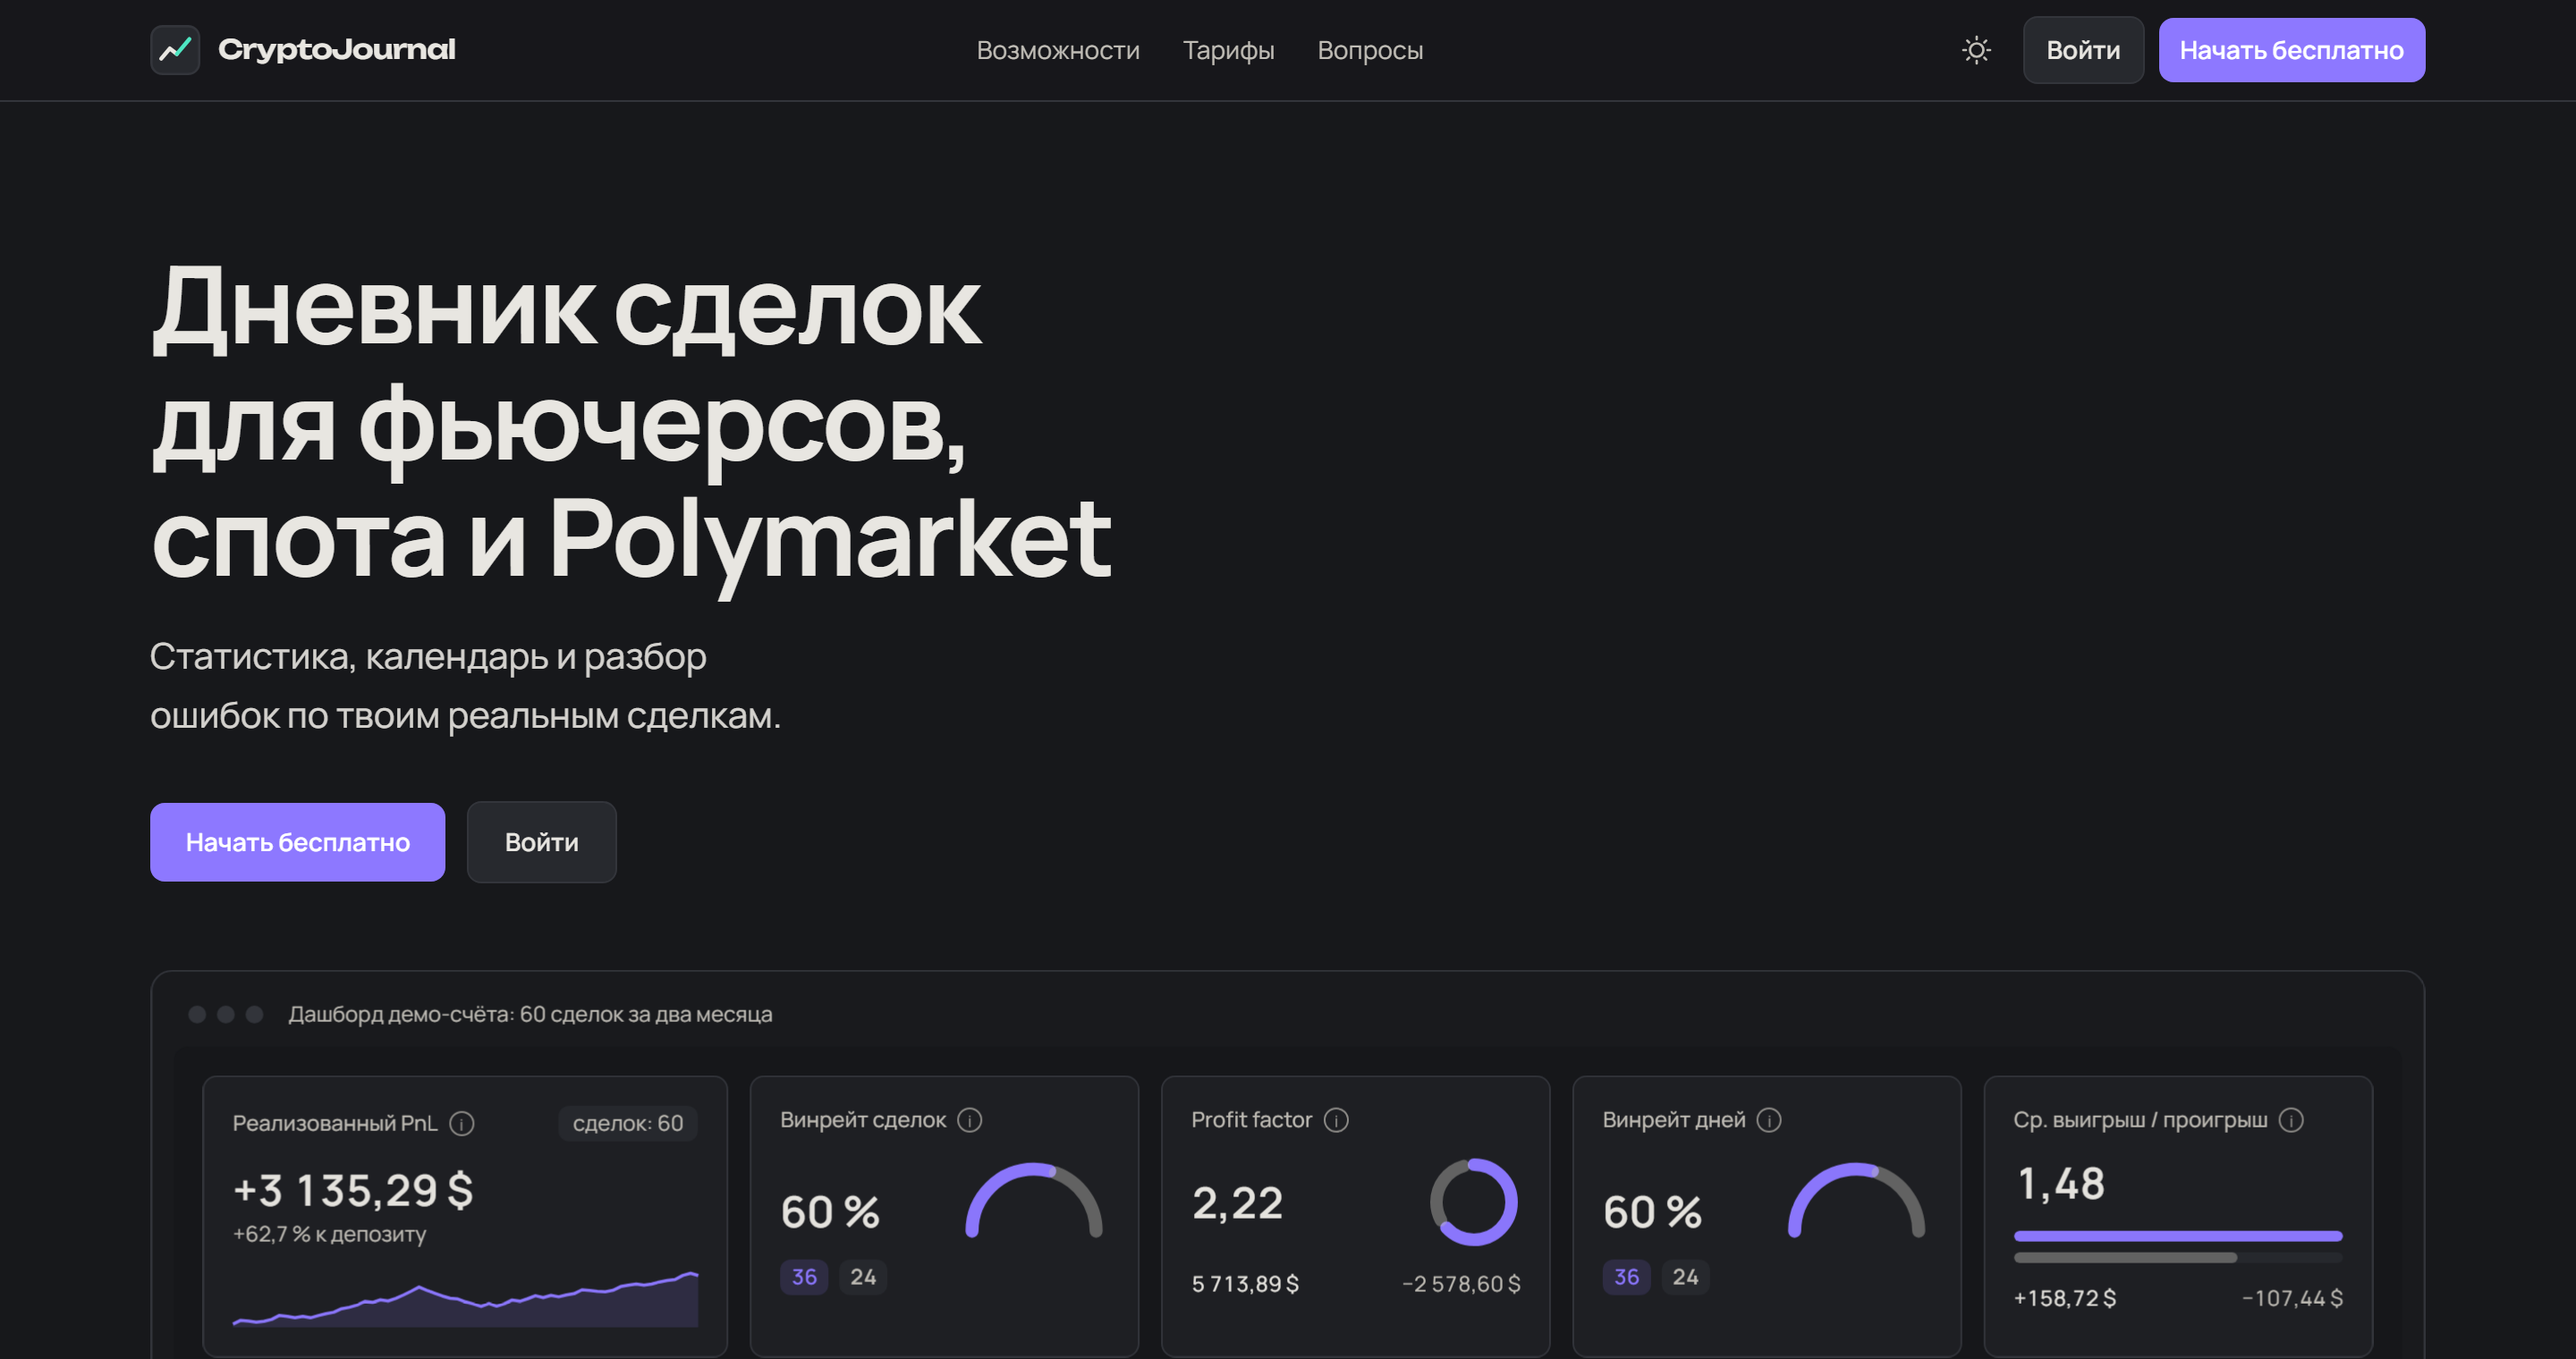
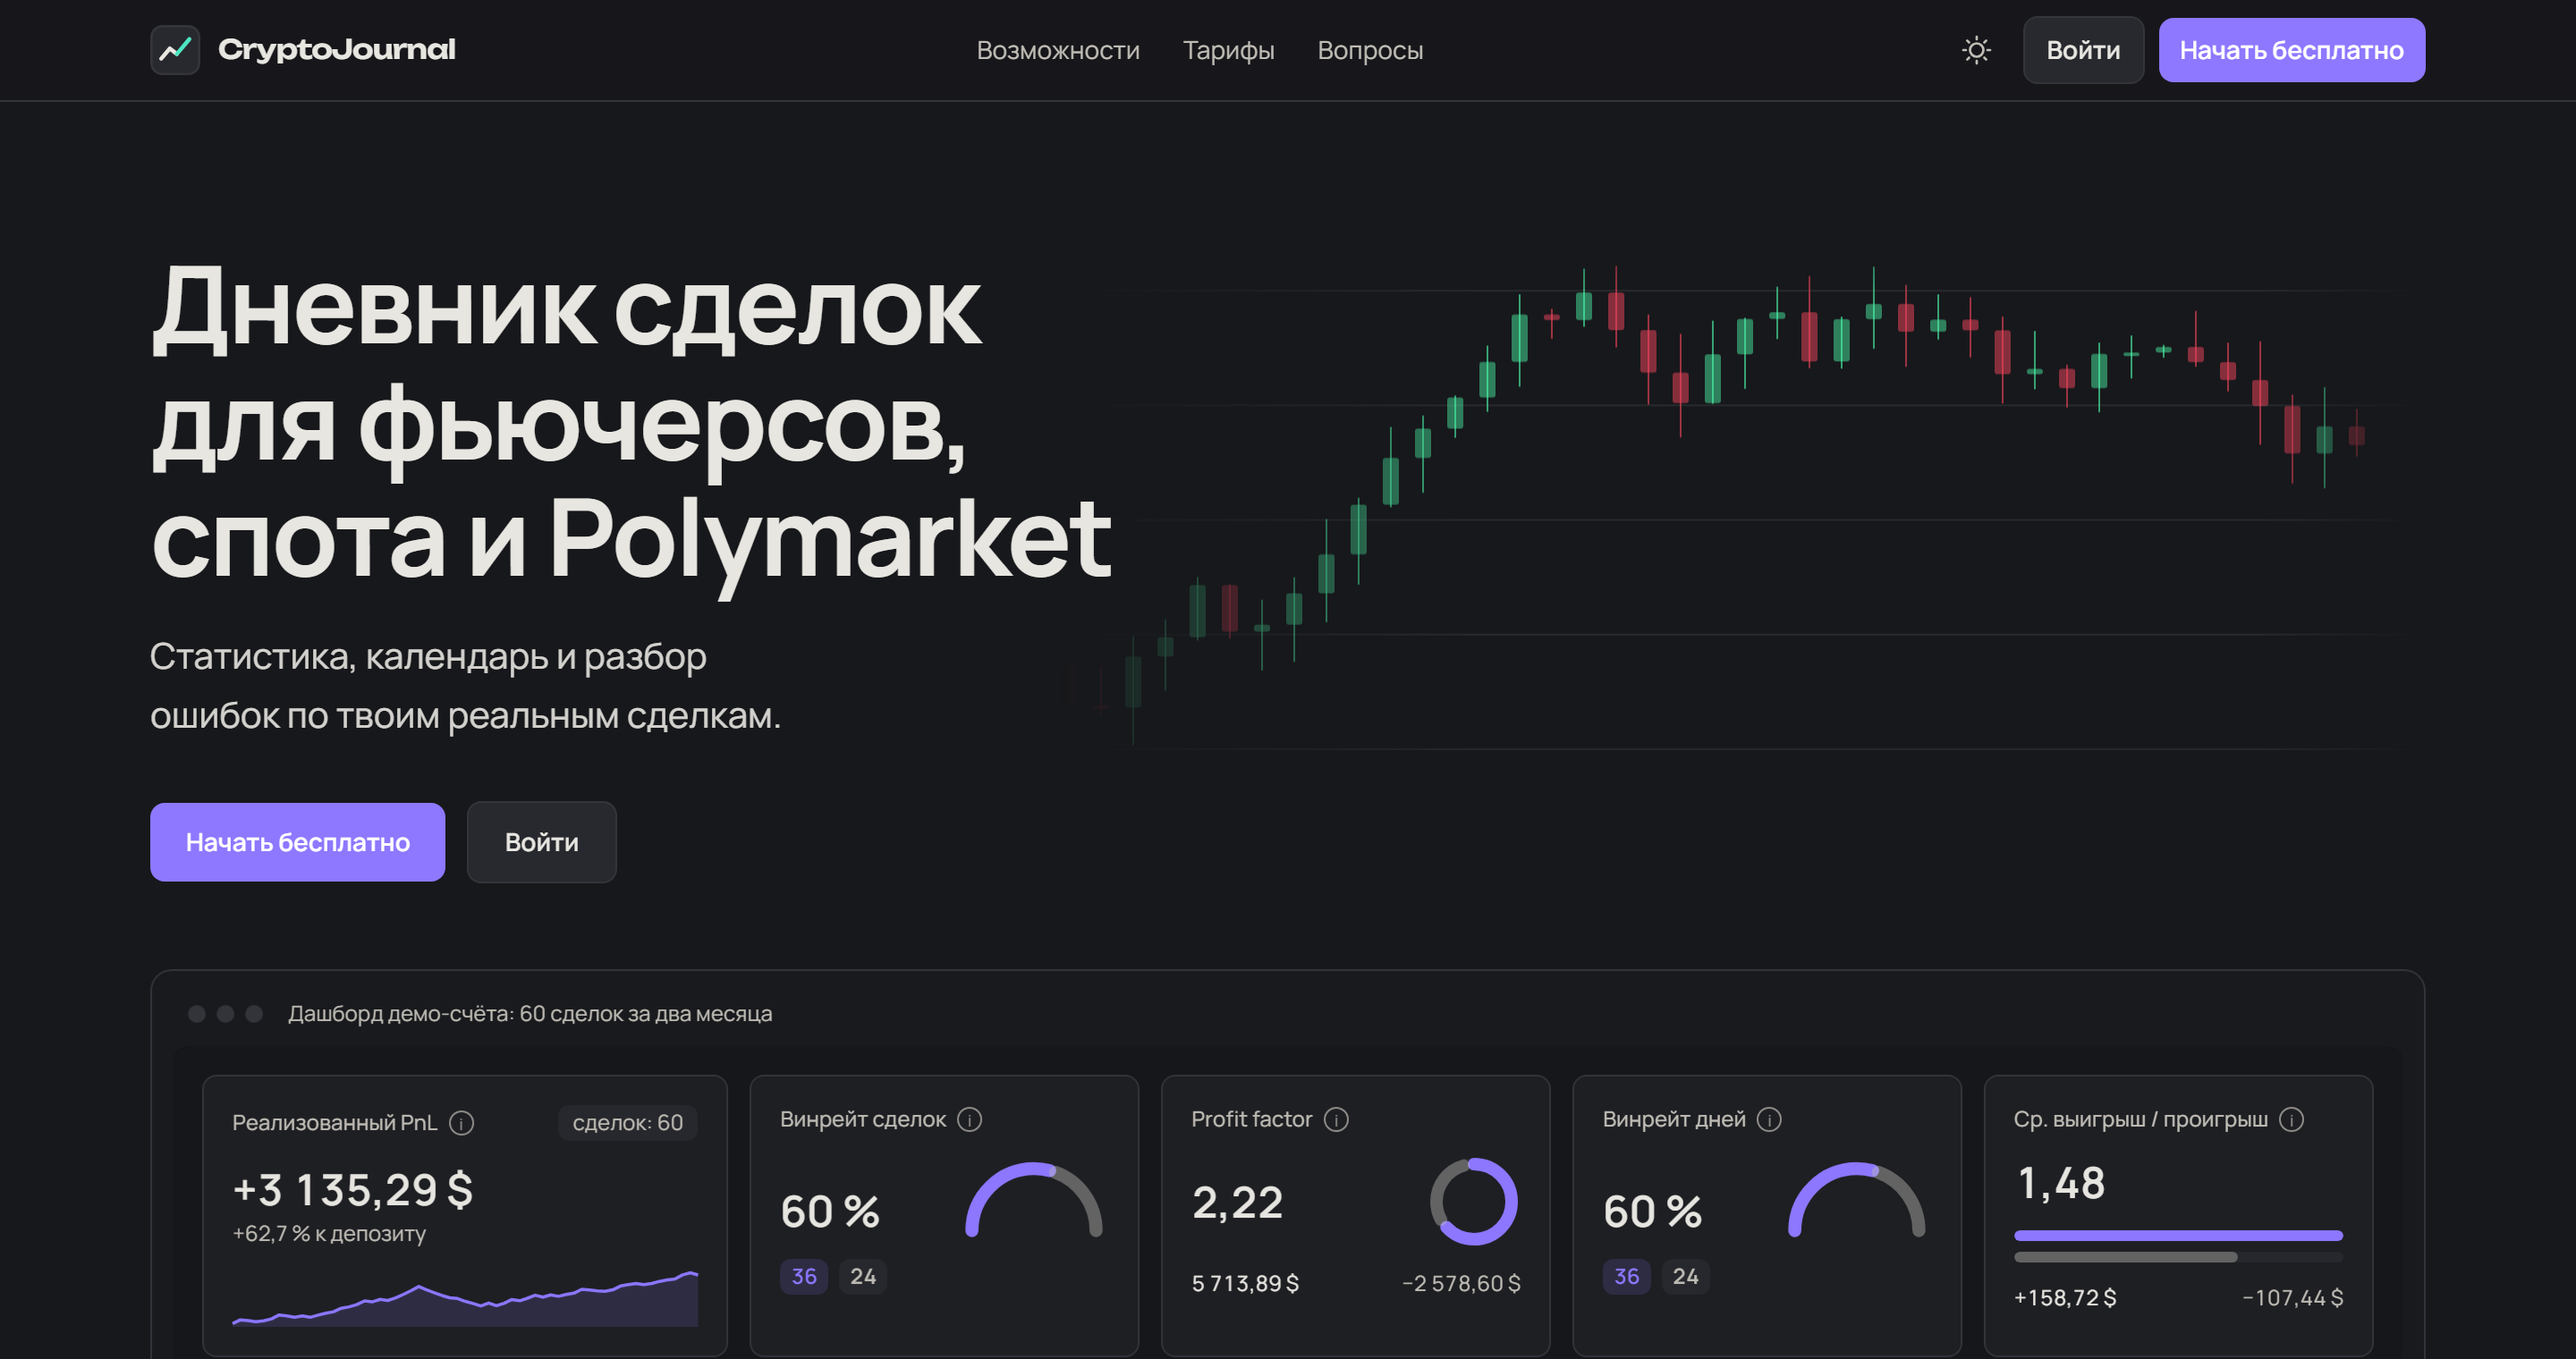
Главная: живой свечной график на фоне первого экрана
- HeroCandles: canvas справа от заголовка, свечи бесконечно едут влево, новая свеча формируется у правого края; на светлой теме свечи плотнее, сетка пунктиром
- цвета из theme.css (up / down / primary / border), меняются вместе с темой и палитрой
- растворяется к краям (hero-fade), появляется после заголовка; на телефоне скрыт
- пауза, когда блок не виден или вкладка скрыта; «уменьшить движение» — неподвижный кадр
- скриншоты обновлены

diff --git a/src/features/landing/HeroCandles.tsx b/src/features/landing/HeroCandles.tsx
@@ -1,0 +1,212 @@
+/**
+ * Фон первого экрана: живой свечной график, который бесконечно «едет»: справа рождаются новые свечи,
+ * последняя свеча формируется на глазах, старые уезжают влево и растворяются.
+ * Рисуется на <canvas> (requestAnimationFrame), цвета — из theme.css (--color-up / --color-down / --color-border),
+ * при смене темы или палитры перечитываются. Стоит на паузе, когда блок не виден или вкладка скрыта.
+ * «Уменьшить движение» — один неподвижный кадр.
+ */
+import { useEffect, useRef, type CSSProperties } from 'react'
+import { prefersReducedMotion } from '@/lib/motion'
+
+type Candle = { o: number; h: number; l: number; c: number }
+
+const STEP = 18 // px между свечами
+const BODY = 9 // ширина тела свечи
+const SPEED = 22 // px в секунду
+/** Прозрачность свечей по темам: на светлом фоне свечи плотнее, иначе выглядят блёклыми */
+const DARK = { wick: 0.6, up: 0.45, down: 0.5 }
+const LIGHT = { wick: 0.8, up: 0.75, down: 0.7 }
+const RIGHT = 28 // отступ новой свечи от правого края, px
+
+/** Следующая свеча: случайное блуждание с лёгким ростом и возвратом к середине, чтобы график не улетал */
+function nextCandle(prev: number, rnd: () => number): Candle {
+  const drift = 0.06 + (50 - prev) * 0.015
+  const move = (rnd() - 0.5) * 6 + drift
+  const o = prev
+  const c = prev + move
+  const h = Math.max(o, c) + rnd() * 2.2
+  const l = Math.min(o, c) - rnd() * 2.2
+  return { o, h, l, c }
+}
+
+function readColors() {
+  const s = getComputedStyle(document.documentElement)
+  const v = (n: string) => s.getPropertyValue(n).trim()
+  return { up: v('--color-up'), down: v('--color-down'), grid: v('--color-border'), light: document.documentElement.dataset.theme === 'light' }
+}
+
+export function HeroCandles({ className = '', style }: { className?: string; style?: CSSProperties }) {
+  const ref = useRef<HTMLCanvasElement>(null)
+
+  useEffect(() => {
+    const canvas = ref.current
+    const ctx = canvas?.getContext('2d')
+    if (!canvas || !ctx) return
+
+    const rnd = Math.random
+    let colors = readColors()
+    let w = 0
+    let h = 0
+    let candles: Candle[] = []
+    let shift = 0 // сдвиг влево внутри одного шага, px
+    let lo = 0
+    let hi = 100
+    let live = 0 // 0…1 — насколько «сформирована» последняя свеча
+    let target: Candle = { o: 50, h: 50, l: 50, c: 50 }
+
+    const fill = () => {
+      const need = Math.ceil(w / STEP) + 3
+      if (!candles.length) {
+        let p = 40 + rnd() * 10
+        for (let i = 0; i < need; i++) {
+          const c = nextCandle(p, rnd)
+          candles.push(c)
+          p = c.c
+        }
+        const r = range()
+        lo = r[0]
+        hi = r[1]
+      }
+      while (candles.length < need) candles.unshift(nextCandle(candles[0]?.o ?? 50, rnd))
+      target = nextCandle(candles[candles.length - 1].c, rnd)
+    }
+
+    const range = (): [number, number] => {
+      let a = Infinity
+      let b = -Infinity
+      for (const c of candles) {
+        a = Math.min(a, c.l)
+        b = Math.max(b, c.h)
+      }
+      const pad = (b - a) * 0.15 + 1
+      return [a - pad, b + pad]
+    }
+
+    const resize = () => {
+      const r = canvas.getBoundingClientRect()
+      const dpr = Math.min(window.devicePixelRatio || 1, 2)
+      w = r.width
+      h = r.height
+      canvas.width = Math.round(w * dpr)
+      canvas.height = Math.round(h * dpr)
+      ctx.setTransform(dpr, 0, 0, dpr, 0, 0)
+      fill()
+      draw()
+    }
+
+    const y = (v: number) => h - ((v - lo) / (hi - lo)) * h
+
+    const draw = () => {
+      ctx.clearRect(0, 0, w, h)
+      // сетка: на светлой — пунктир, чтобы не рябило на кремовом фоне
+      ctx.globalAlpha = colors.light ? 0.9 : 0.6
+      ctx.strokeStyle = colors.grid
+      ctx.lineWidth = 1
+      ctx.setLineDash(colors.light ? [3, 5] : [])
+      ctx.beginPath()
+      for (let gy = 0.5; gy < h; gy += 64) {
+        ctx.moveTo(0, Math.round(gy) + 0.5)
+        ctx.lineTo(w, Math.round(gy) + 0.5)
+      }
+      ctx.stroke()
+      ctx.setLineDash([])
+
+      // последняя свеча формируется: от открытия к цели
+      const k = live
+      const forming: Candle = {
+        o: target.o,
+        c: target.o + (target.c - target.o) * k,
+        h: Math.max(target.o, target.o + (target.h - target.o) * k),
+        l: Math.min(target.o, target.o + (target.l - target.o) * k),
+      }
+      const all = [...candles, forming]
+      // формирующаяся свеча рождается у правого края и вместе со всеми плавно уезжает влево
+      const x0 = w - RIGHT - (all.length - 1) * STEP - shift
+
+      all.forEach((c, i) => {
+        const x = x0 + i * STEP
+        if (x < -STEP || x > w + STEP) return
+        const up = c.c >= c.o
+        const a = colors.light ? LIGHT : DARK
+        ctx.globalAlpha = a.wick
+        ctx.strokeStyle = up ? colors.up : colors.down
+        ctx.fillStyle = up ? colors.up : colors.down
+        ctx.lineWidth = colors.light ? 1.25 : 1
+        ctx.beginPath()
+        ctx.moveTo(Math.round(x) + 0.5, y(c.h))
+        ctx.lineTo(Math.round(x) + 0.5, y(c.l))
+        ctx.stroke()
+        const top = y(Math.max(c.o, c.c))
+        const bh = Math.max(2, Math.abs(y(c.o) - y(c.c)))
+        ctx.globalAlpha = up ? a.up : a.down
+        ctx.beginPath()
+        ctx.roundRect(Math.round(x - BODY / 2), top, BODY, bh, 1.5)
+        ctx.fill()
+      })
+
+      ctx.globalAlpha = 1
+    }
+
+    let frame = 0
+    let prev = 0
+    let running = false
+    const tick = (now: number) => {
+      const dt = Math.min(0.05, (now - prev) / 1000)
+      prev = now
+      shift += SPEED * dt
+      live = Math.min(1, shift / STEP)
+      if (shift >= STEP) {
+        shift -= STEP
+        candles.push(target)
+        candles.shift()
+        target = nextCandle(target.c, rnd)
+        live = shift / STEP
+      }
+      // масштаб по высоте подстраивается плавно, без рывков
+      const [a, b] = range()
+      lo += (Math.min(a, target.l) - lo) * 0.03
+      hi += (Math.max(b, target.h) - hi) * 0.03
+      draw()
+      frame = requestAnimationFrame(tick)
+    }
+    const start = () => {
+      if (running || prefersReducedMotion()) return
+      running = true
+      prev = performance.now()
+      frame = requestAnimationFrame(tick)
+    }
+    const stop = () => {
+      running = false
+      cancelAnimationFrame(frame)
+    }
+
+    resize()
+    const ro = new ResizeObserver(resize)
+    ro.observe(canvas)
+    let visible = true
+    const io = new IntersectionObserver(([e]) => {
+      visible = e.isIntersecting
+      if (visible && !document.hidden) start()
+      else stop()
+    })
+    io.observe(canvas)
+    const onVis = () => (document.hidden || !visible ? stop() : start())
+    document.addEventListener('visibilitychange', onVis)
+    // тема / палитра поменялись — перечитать цвета
+    const mo = new MutationObserver(() => {
+      colors = readColors()
+      if (!running) draw()
+    })
+    mo.observe(document.documentElement, { attributes: true, attributeFilter: ['data-theme', 'data-palette'] })
+
+    return () => {
+      stop()
+      ro.disconnect()
+      io.disconnect()
+      mo.disconnect()
+      document.removeEventListener('visibilitychange', onVis)
+    }
+  }, [])
+
+  return <canvas ref={ref} aria-hidden className={className} style={style} />
+}

diff --git a/src/features/landing/LandingPage.tsx b/src/features/landing/LandingPage.tsx
@@ -12,6 +12,7 @@ import { KpiRow, ScoreCard } from '@/features/dashboard/Widgets'
 import { formatPnl, pnlClass } from '@/lib/format'
 import { Reveal } from './Reveal'
 import { PlanCards } from './PlanCards'
+import { HeroCandles } from './HeroCandles'
 import { demoAccount } from './demo'
 
 const EquityChart = lazy(() => import('@/features/dashboard/charts').then((m) => ({ default: m.EquityChart })))
@@ -79,7 +80,13 @@ export function LandingPage() {
       <main>
         {/* первый экран */}
         <section className={`${wrap} pt-12 pb-10 sm:pt-20`}>
-          <div className="max-w-3xl">
+          <div className="relative">
+          {/* живой свечной график справа от заголовка, на фоне */}
+          <HeroCandles
+            className="hero-fade animate-word pointer-events-none absolute -top-10 -bottom-8 right-0 hidden w-[60%] md:block"
+            style={{ animationDelay: '500ms' }}
+          />
+          <div className="relative max-w-3xl">
             {/* заход на сайт: слова заголовка по очереди, затем подзаголовок, кнопки и превью */}
             <h1 className="text-4xl leading-[1.08] font-bold tracking-tight text-balance sm:text-5xl lg:text-6xl" aria-label={l.title}>
               {l.title.split(' ').map((w, i) => (
@@ -102,6 +109,7 @@ export function LandingPage() {
                 {l.login}
               </Link>
             </Reveal>
+          </div>
           </div>
 
           {/* живое превью дашборда */}

diff --git a/src/styles/theme.css b/src/styles/theme.css
@@ -192,6 +192,14 @@
   }
 }
 
+/* Фоновый график на первом экране: растворяется к краям, слева — под текстом почти не виден */
+@utility hero-fade {
+  mask-image:
+    linear-gradient(to right, transparent, black 30%, black 88%, transparent),
+    linear-gradient(to bottom, transparent, black 18%, black 82%, transparent);
+  mask-composite: intersect;
+}
+
 /* Лесенка появления: style={{ '--i': номер }} задаёт задержку */
 @utility rise {
   animation: var(--animate-rise);
